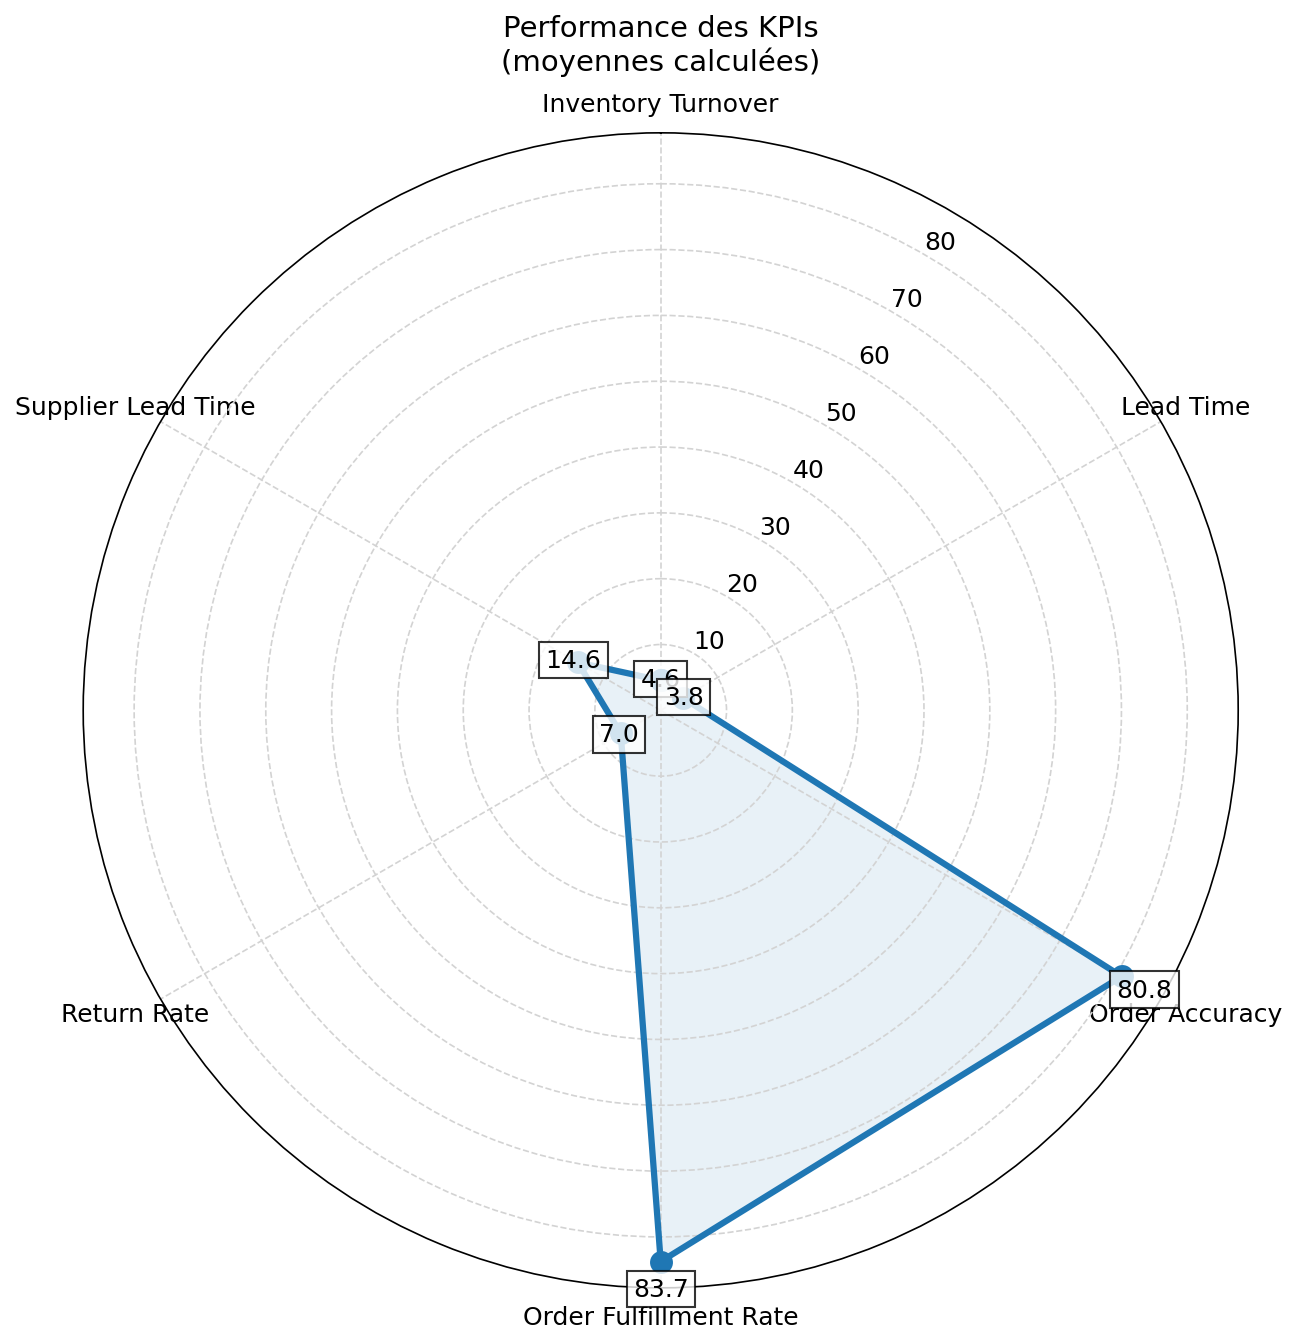
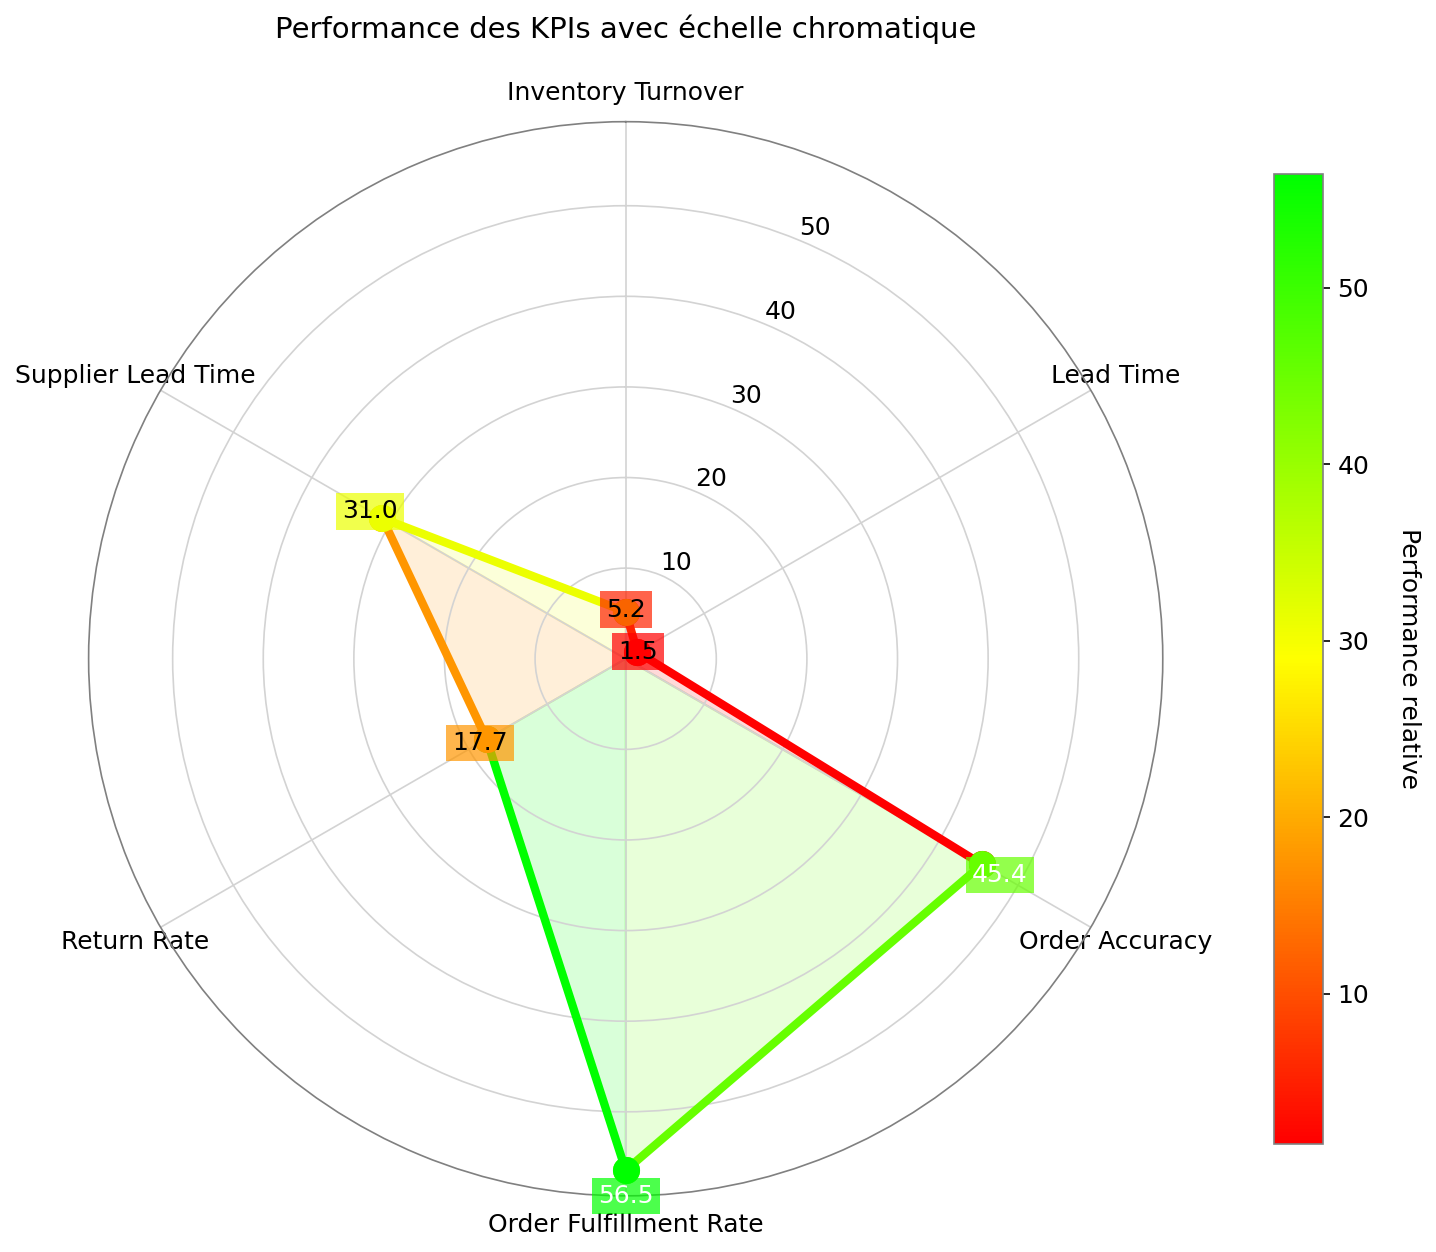
Ajout d'une échelle colorimétrique sur le diagramme
Ajout d'une échelle colorimétrique sur le diagramme pour mieux visualiser les données

diff --git a/main.py b/main.py
@@ -3,6 +3,7 @@ import pandas as pd
 import matplotlib.pyplot as plt
 import numpy as np
 from math import pi
+from matplotlib.colors import LinearSegmentedColormap
 import sys
 
 # Configuration
@@ -43,87 +44,100 @@ def preparer_donnees(df):
     """Prépare les données pour le radar chart"""
     print("\n📊 Préparation des données...")
 
-    # Vérification des colonnes requises
     required_cols = {'kpi_name', 'value'}
     if not required_cols.issubset(df.columns):
         missing = required_cols - set(df.columns)
         raise ValueError(f"Colonnes manquantes: {missing}")
 
-    # Agrégation
     stats = df.groupby('kpi_name').agg(
         moyenne=('value', 'mean'),
         min=('value', 'min'),
         max=('value', 'max')
     ).reset_index()
 
+    # Normalisation pour le dégradé
+    stats['normalized'] = (stats['moyenne'] - stats['moyenne'].min()) / (
+                stats['moyenne'].max() - stats['moyenne'].min())
     print(stats)
     return stats
 
 
-def creer_radar(df):
-    """Crée un radar chart professionnel sans dépendance Seaborn"""
-    print("\n🎨 Génération du diagramme radar...")
+def creer_radar_grade(df):
+    """Crée un radar chart avec dégradé de couleurs et gestion correcte de la colorbar"""
+    print("\n🎨 Génération du diagramme radar avec dégradé...")
 
-    # Configuration du style manuellement
+    # Création du dégradé (rouge -> jaune -> vert)
+    cmap = LinearSegmentedColormap.from_list('perf', ['#FF0000', '#FFFF00', '#00FF00'])
+
+    # Configuration du style
+    plt.style.use('default')
     plt.rcParams.update({
         'axes.facecolor': 'white',
-        'axes.edgecolor': 'black',
+        'axes.edgecolor': 'gray',
         'axes.grid': True,
         'grid.color': 'lightgray',
-        'grid.linestyle': '--',
         'font.size': 12
     })
 
-    # Initialisation
-    fig = plt.figure(figsize=(10, 10))
+    # Initialisation avec espace dédié pour la colorbar
+    fig = plt.figure(figsize=(12, 12))
     ax = fig.add_subplot(111, polar=True)
 
-    # Paramétrage
     categories = df['kpi_name'].tolist()
     N = len(categories)
     angles = [n / N * 2 * pi for n in range(N)]
-    angles += angles[:1]  # Fermer le cercle
+    angles += angles[:1]
 
-    # Données
     values = df['moyenne'].tolist()
     values += values[:1]
 
-    # Tracé
-    ax.plot(angles, values, color='#1f77b4', linewidth=3, marker='o', markersize=10)
-    ax.fill(angles, values, color='#1f77b4', alpha=0.1)
+    # Création d'un mappable pour la colorbar
+    norm = plt.Normalize(df['moyenne'].min(), df['moyenne'].max())
+    sm = plt.cm.ScalarMappable(cmap=cmap, norm=norm)
+    sm.set_array([])  # Nécessaire pour Matplotlib > 3.3
 
-    # Étiquettes
+    # Tracé avec dégradé
+    for i in range(N):
+        color = cmap(df['normalized'].iloc[i])
+        line, = ax.plot([angles[i], angles[(i + 1) % N]],
+                        [values[i], values[(i + 1) % N]],
+                        color=color, linewidth=4, marker='o', markersize=12)
+
+        # Zone colorée
+        ax.fill([angles[i], angles[(i + 1) % N], 0],
+                [values[i], values[(i + 1) % N], 0],
+                color=color, alpha=0.15)
+
+        # Étiquettes de valeur avec couleur adaptée
+        text_color = 'black' if df['normalized'].iloc[i] < 0.7 else 'white'
+        ax.text(angles[i], values[i] * 1.05, f"{values[i]:.1f}",
+                ha='center', va='center', color=text_color,
+                bbox=dict(facecolor=color, alpha=0.7, pad=3, edgecolor='none'))
+
+    # Paramétrage
     ax.set_xticks(angles[:-1])
     ax.set_xticklabels(categories, fontsize=12)
-
-    # Valeurs
-    for angle, value, label in zip(angles[:-1], values[:-1], categories):
-        ax.text(angle, value * 1.05, f"{value:.1f}",
-                ha='center', va='center',
-                bbox=dict(facecolor='white', alpha=0.8, pad=3))
-
-    # Paramètres visuels
     ax.set_theta_offset(pi / 2)
     ax.set_theta_direction(-1)
-    ax.set_rlabel_position(30)
-    plt.title("Performance des KPIs\n(moyennes calculées)", pad=30, fontsize=14)
 
-    # Sauvegarde
+    # Ajout correct de la colorbar
+    cbar = plt.colorbar(sm, ax=ax, pad=0.08, shrink=0.7)
+    cbar.set_label('Performance relative', rotation=270, labelpad=25)
+
+    plt.title("Performance des KPIs avec échelle chromatique", pad=40, fontsize=14)
+
     plt.savefig(CONFIG['output_file'], dpi=150, bbox_inches='tight')
     print(f"\n💾 Diagramme sauvegardé sous {CONFIG['output_file']} (150 DPI)")
     plt.close()
 
 
 if __name__ == "__main__":
-    # Vérification initiale
     if not verifier_connexion():
         print("❌ Impossible de se connecter à l'API. Vérifiez:")
         print(f"- Que l'URL {CONFIG['url']} est correcte")
         print("- Que le serveur est en cours d'exécution")
-        print("- Votre connexion réseau")
         sys.exit(1)
 
-    # Récupération des données
     raw_data = charger_donnees()
 
     if raw_data is None:
@@ -132,7 +146,7 @@ if __name__ == "__main__":
     try:
         df = pd.DataFrame(raw_data)
         stats = preparer_donnees(df)
-        creer_radar(stats)
+        creer_radar_grade(stats)
         print("\n✅ Analyse terminée avec succès!")
     except Exception as e:
         print(f"❌ Erreur lors du traitement: {str(e)}")
